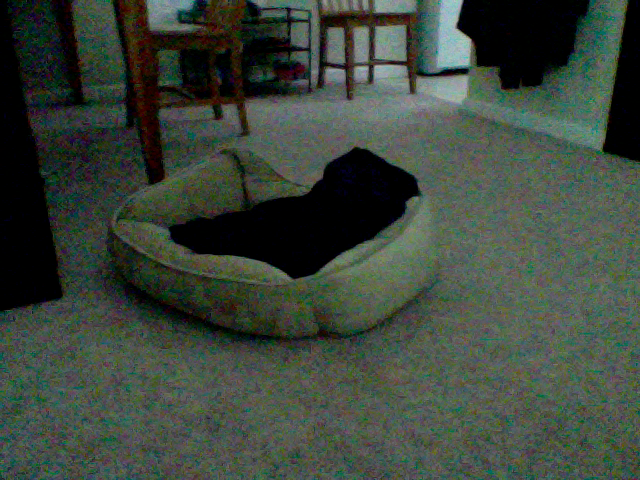
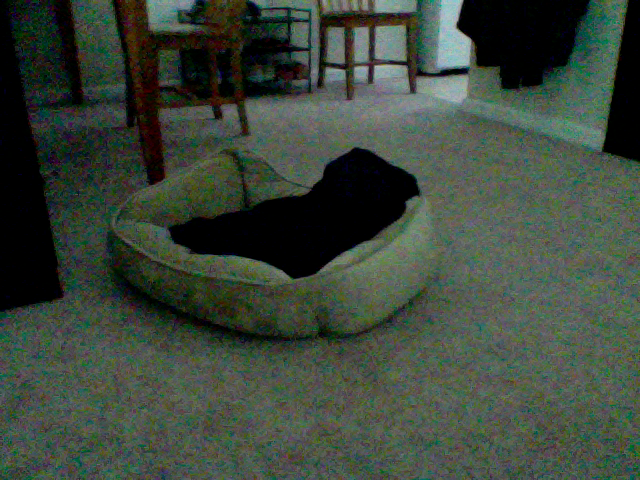
update at Month05Day09Time10:44

diff --git a/index.html b/index.html
@@ -39,8 +39,8 @@
       <!-- Example row of columns -->
       <div class="row">
         <div class="col-md-4">
-	<p>This picture was updated at Month05Day09Time10:43</p>
-		<img src="4_pic.png" />
+	<p>This picture was updated at Month05Day09Time10:44</p>
+		<img src="5_pic.png" />
         </div>
       </div>
 
